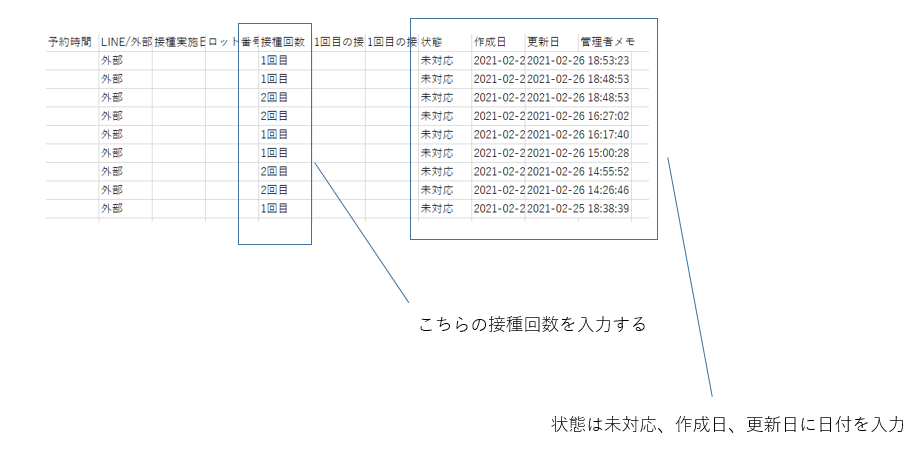
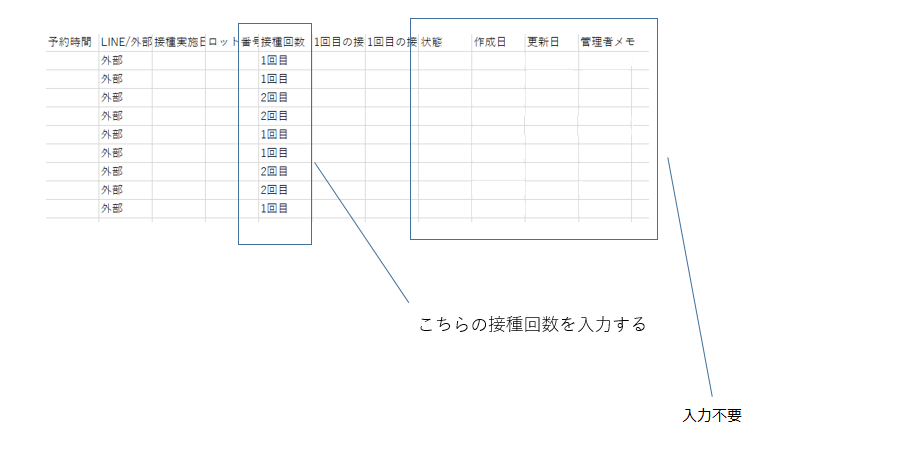
Update Manual

Changed region(s): [[0.4585, 0.1179, 0.7031, 0.4716], [0.6114, 0.8547, 1.0, 0.9137]]

diff --git a/docs/index.html b/docs/index.html
@@ -3338,13 +3338,11 @@
             <ul>
             <li>中分類に1回目または2回目を設定</li>
             </ul></li>
+            <li>カテゴリIDのみで各カテゴリの名称は未入力としてください。</li>
+            <li>新規インポート時には、ユーザーID、パーティションキー、#、状態、作成日、更新日は未入力としてください。</li>
             </ul></li>
             </ul>
             <img src='./images/vaccine/bunrui-id.png' style='border:solid 2px lightgray' /> <br>
-            <div style="page-break-before:always">
-
-            </div>
-            <img src='./images/vaccine/sample-survey.png' style='border:solid 2px lightgray' /> <br>
             <div style="page-break-before:always">
 
             </div>
